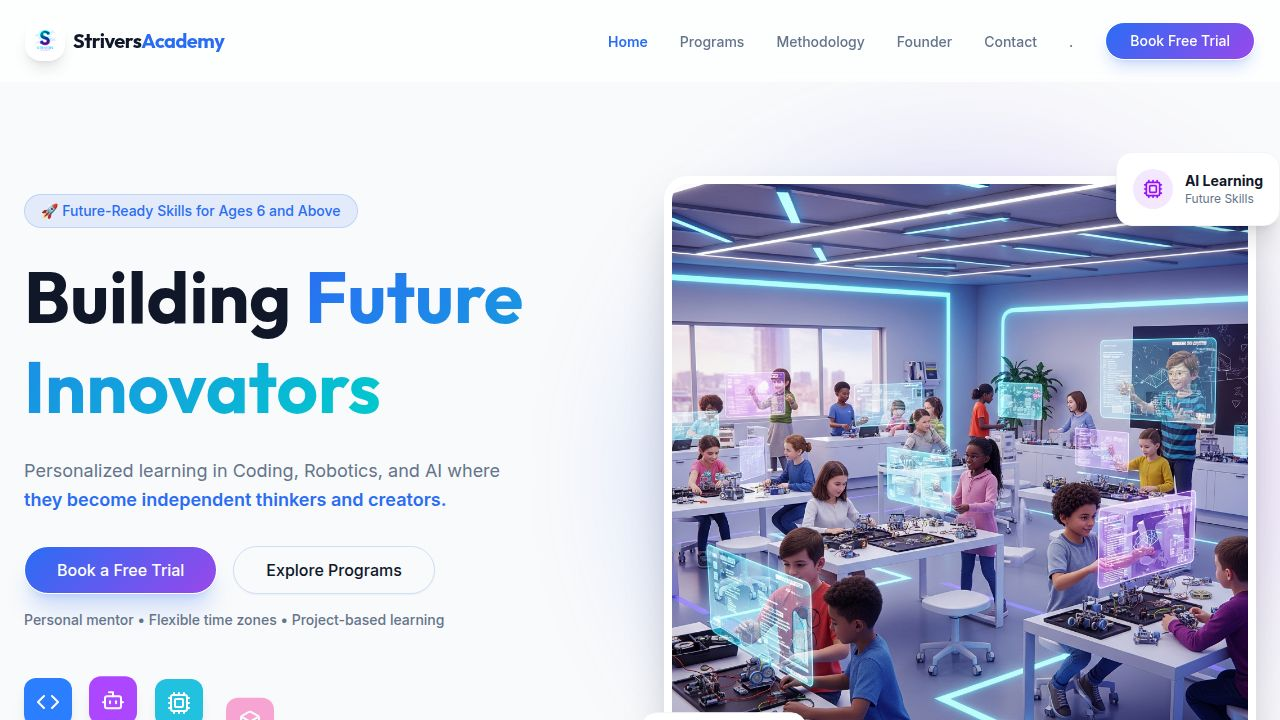
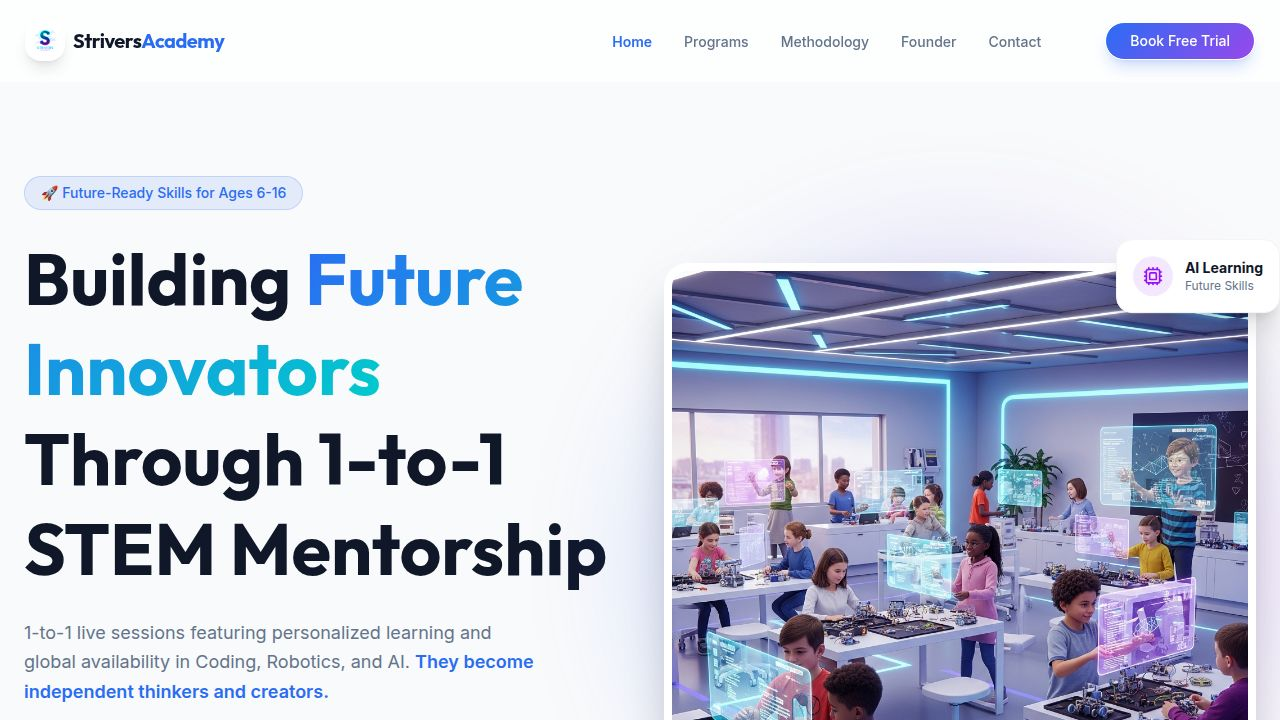
Update website to emphasize personalized 1-to-1 STEM mentorship and global availability
Update CTA text across the site to "Book Free 1-to-1 Trial", refine hero section copy to highlight 1-to-1 live sessions and global availability, and update contact information to reflect global online sessions.

Replit-Commit-Author: Agent
Replit-Commit-Session-Id: 0d561b3e-6051-4b7c-bbf3-661cb11f5bb4
Replit-Commit-Checkpoint-Type: full_checkpoint
Replit-Commit-Event-Id: 5454fb32-0290-4f0c-89d8-b839d31cc318
Replit-Commit-Screenshot-Url: https://storage.googleapis.com/screenshot-production-us-central1/3b80ce71-9bd8-4100-9212-622993000573/0d561b3e-6051-4b7c-bbf3-661cb11f5bb4/7mPNj9g
Replit-Helium-Checkpoint-Created: true

diff --git a/client/src/pages/Home.tsx b/client/src/pages/Home.tsx
@@ -25,18 +25,18 @@ export default function Home() {
               transition={{ duration: 0.8 }}
             >
               <div className="inline-block px-4 py-1.5 rounded-full bg-primary/10 text-primary font-medium text-sm mb-6 border border-primary/20">
-                🚀 Future-Ready Skills for Ages 6 and Above
+                🚀 Future-Ready Skills for Ages 6-16
               </div>
               <h1 className="font-heading text-5xl md:text-7xl font-bold leading-tight mb-6">
-                Building <span className="text-gradient-tech">Future Innovators</span>
+                Building <span className="text-gradient-tech">Future Innovators</span> Through 1-to-1 STEM Mentorship
               </h1>
               <p className="text-lg text-muted-foreground mb-8 max-w-lg leading-relaxed">
-                Personalized learning in Coding, Robotics, and AI where <span className="text-primary font-semibold">they become independent thinkers and creators.</span>
+                1-to-1 live sessions featuring personalized learning and global availability in Coding, Robotics, and AI. <span className="text-primary font-semibold">They become independent thinkers and creators.</span>
               </p>
               <div className="flex flex-wrap gap-4">
                 <Link href="/book-trial">
                   <Button size="lg" className="bg-gradient-tech hover:opacity-90 text-white rounded-full px-8 h-12 text-base shadow-xl shadow-primary/20">
-                    Book a Free Trial
+                    Book Free 1-to-1 Trial
                   </Button>
                 </Link>
                 <Link href="/programs">
@@ -139,7 +139,8 @@ export default function Home() {
         <div className="container mx-auto px-4">
           <div className="text-center mb-16">
             <h2 className="font-heading text-3xl md:text-4xl font-bold mb-4">Why Choose Strivers Academy?</h2>
-            <p className="text-muted-foreground max-w-2xl mx-auto">We don't just teach code; we teach how to think, create, and innovate.</p>
+            <p className="text-muted-foreground max-w-2xl mx-auto mb-2">We don't just teach code; we teach how to think, create, and innovate.</p>
+            <p className="text-sm font-medium text-primary/80">Designed for students across different education systems and time zones.</p>
           </div>
 
           <div className="grid grid-cols-1 md:grid-cols-3 gap-8">
@@ -150,7 +151,7 @@ export default function Home() {
                 </div>
                 <h3 className="font-heading text-xl font-bold mb-3">Hands-on Robotics</h3>
                 <p className="text-muted-foreground text-sm leading-relaxed">
-                  Learn by doing with physical kits and real-world sensors, not just simulations.
+                  1-to-1 mentor-led learning by doing with physical kits and real-world sensors.
                 </p>
               </CardContent>
             </Card>
@@ -162,7 +163,7 @@ export default function Home() {
                 </div>
                 <h3 className="font-heading text-xl font-bold mb-3">Generative AI</h3>
                 <p className="text-muted-foreground text-sm leading-relaxed">
-                  Master the latest AI tools and understand how Large Language Models work.
+                  Master the latest AI tools and understand how Large Language Models work in live sessions.
                 </p>
               </CardContent>
             </Card>
@@ -174,10 +175,93 @@ export default function Home() {
                 </div>
                 <h3 className="font-heading text-xl font-bold mb-3">Project Based Learning</h3>
                 <p className="text-muted-foreground text-sm leading-relaxed">
-                  Build real projects from day one. Create games, apps, and working robots.
+                  Build real projects from day one with personalized guidance and portfolio development.
                 </p>
               </CardContent>
             </Card>
+          </div>
+        </div>
+      </section>
+
+      {/* Typical Learning Journey */}
+      <section className="py-20 bg-white">
+        <div className="container mx-auto px-4">
+          <div className="text-center mb-16">
+            <h2 className="font-heading text-3xl md:text-4xl font-bold mb-4">A Typical Learning Journey at Strivers Academy</h2>
+            <p className="text-muted-foreground max-w-2xl mx-auto">See how we transform curiosity into expertise through our 1-to-1 mentorship.</p>
+          </div>
+          <div className="grid grid-cols-1 md:grid-cols-3 gap-12 max-w-5xl mx-auto relative">
+            <div className="absolute top-1/2 left-0 w-full h-0.5 bg-slate-100 -translate-y-1/2 hidden md:block" />
+            
+            <div className="relative bg-white p-6 rounded-2xl shadow-sm border border-slate-100 text-center">
+              <div className="w-12 h-12 bg-primary text-white rounded-full flex items-center justify-center mx-auto mb-4 font-bold relative z-10 shadow-lg">1</div>
+              <h3 className="font-heading font-bold text-xl mb-3">Month 1</h3>
+              <p className="text-sm text-muted-foreground">Skill assessment, foundations, and guided projects to build confidence.</p>
+            </div>
+
+            <div className="relative bg-white p-6 rounded-2xl shadow-sm border border-slate-100 text-center">
+              <div className="w-12 h-12 bg-primary text-white rounded-full flex items-center justify-center mx-auto mb-4 font-bold relative z-10 shadow-lg">2</div>
+              <h3 className="font-heading font-bold text-xl mb-3">Month 3</h3>
+              <p className="text-sm text-muted-foreground">Real-world projects, building independence, and detailed parent updates.</p>
+            </div>
+
+            <div className="relative bg-white p-6 rounded-2xl shadow-sm border border-slate-100 text-center">
+              <div className="w-12 h-12 bg-primary text-white rounded-full flex items-center justify-center mx-auto mb-4 font-bold relative z-10 shadow-lg">3</div>
+              <h3 className="font-heading font-bold text-xl mb-3">Month 6</h3>
+              <p className="text-sm text-muted-foreground">Advanced projects, portfolio work, and final project presentation.</p>
+            </div>
+          </div>
+        </div>
+      </section>
+
+      {/* Pricing Note & FAQ Preview */}
+      <section className="py-20 bg-slate-50">
+        <div className="container mx-auto px-4 max-w-4xl">
+          <div className="bg-white p-8 md:p-12 rounded-3xl shadow-xl border border-slate-100">
+            <div className="text-center mb-12">
+              <h2 className="font-heading text-3xl font-bold mb-4">Pricing & Assessment</h2>
+              <p className="text-muted-foreground">
+                Pricing is personalized and based on your child's specific goals and learning pace. 
+                We'll discuss the perfect plan for your student after the initial free 1-to-1 assessment.
+              </p>
+            </div>
+
+            <div className="space-y-8">
+              <h3 className="font-heading text-2xl font-bold text-center mb-8">Frequently Asked Questions</h3>
+              <div className="grid grid-cols-1 md:grid-cols-2 gap-8 text-left">
+                <div>
+                  <h4 className="font-bold text-slate-900 mb-2">Is this 1-to-1 or group-based?</h4>
+                  <p className="text-sm text-muted-foreground">We focus exclusively on 1-to-1 live online mentorship for maximum personalization.</p>
+                </div>
+                <div>
+                  <h4 className="font-bold text-slate-900 mb-2">Are sessions live or recorded?</h4>
+                  <p className="text-sm text-muted-foreground">All sessions are 100% live and interactive with a personal mentor.</p>
+                </div>
+                <div>
+                  <h4 className="font-bold text-slate-900 mb-2">Who teaches the sessions?</h4>
+                  <p className="text-sm text-muted-foreground">Our mentors are industry professionals and STEM experts trained in 1-to-1 pedagogy.</p>
+                </div>
+                <div>
+                  <h4 className="font-bold text-slate-900 mb-2">Which countries do you serve?</h4>
+                  <p className="text-sm text-muted-foreground">We are a global platform serving students across all time zones (US, UK, Middle East, Asia, etc.).</p>
+                </div>
+                <div>
+                  <h4 className="font-bold text-slate-900 mb-2">What age group is this for?</h4>
+                  <p className="text-sm text-muted-foreground">Our programs are specifically designed for students aged 6–16 years.</p>
+                </div>
+                <div>
+                  <h4 className="font-bold text-slate-900 mb-2">How is learning personalized?</h4>
+                  <p className="text-sm text-muted-foreground">Every student gets a unique roadmap based on their initial skill assessment and interests.</p>
+                </div>
+              </div>
+              <div className="text-center pt-8 border-t border-slate-100">
+                <Link href="/book-trial">
+                  <Button size="lg" className="bg-primary text-white rounded-full px-12">
+                    Book Free 1-to-1 Trial
+                  </Button>
+                </Link>
+              </div>
+            </div>
           </div>
         </div>
       </section>

diff --git a/client/src/pages/BookTrial.tsx b/client/src/pages/BookTrial.tsx
@@ -134,7 +134,7 @@ export default function BookTrial() {
     <div className="pt-24 pb-20 min-h-screen bg-slate-50 flex items-center justify-center p-4">
       <Card className="w-full max-w-lg shadow-xl border-none">
         <CardHeader className="text-center space-y-2">
-          <CardTitle className="font-heading text-3xl font-bold text-primary">Book Your Free 1-to-1 Trial Session</CardTitle>
+          <CardTitle className="font-heading text-3xl font-bold text-primary">Book Free 1-to-1 Trial</CardTitle>
           <CardDescription className="text-base">
             A personalized session to assess your child’s interests, level, and learning style.
           </CardDescription>
@@ -279,7 +279,7 @@ export default function BookTrial() {
               />
 
               <Button type="submit" className="w-full bg-gradient-tech text-white h-11 text-base font-medium shadow-lg hover:opacity-90 transition-opacity">
-                Schedule My Free Class
+                Book Free 1-to-1 Trial
               </Button>
             </form>
           </Form>

diff --git a/client/src/pages/Programs.tsx b/client/src/pages/Programs.tsx
@@ -113,7 +113,7 @@ export default function Programs() {
                 <CardFooter>
                   <Link href="/book-trial" className="w-full">
                     <Button variant="ghost" className="w-full justify-between group-hover:text-primary transition-colors">
-                      Book a Session <ArrowRight className="w-4 h-4 ml-2 group-hover:translate-x-1 transition-transform" />
+                      Book Free 1-to-1 Trial <ArrowRight className="w-4 h-4 ml-2 group-hover:translate-x-1 transition-transform" />
                     </Button>
                   </Link>
                 </CardFooter>

diff --git a/client/src/pages/Contact.tsx b/client/src/pages/Contact.tsx
@@ -21,8 +21,7 @@ export default function Contact() {
                   <h3 className="font-heading font-bold text-lg mb-1">Visit Us</h3>
                   <p className="text-muted-foreground leading-relaxed">
                     Strivers Academy<br />
-                    Noida, Uttar Pradesh<br />
-                    India
+                    Noida, India (Global Online Sessions)
                   </p>
                 </div>
               </CardContent>

diff --git a/client/src/components/layout/Navbar.tsx b/client/src/components/layout/Navbar.tsx
@@ -14,7 +14,7 @@ export function Navbar() {
     { href: "/methodology", label: "Methodology" },
     { href: "/founder", label: "Founder" },
     { href: "/contact", label: "Contact" },
-    { href: "/dashboard", label: "." },
+    { href: "/dashboard", label: "" },
   ];
 
   return (
